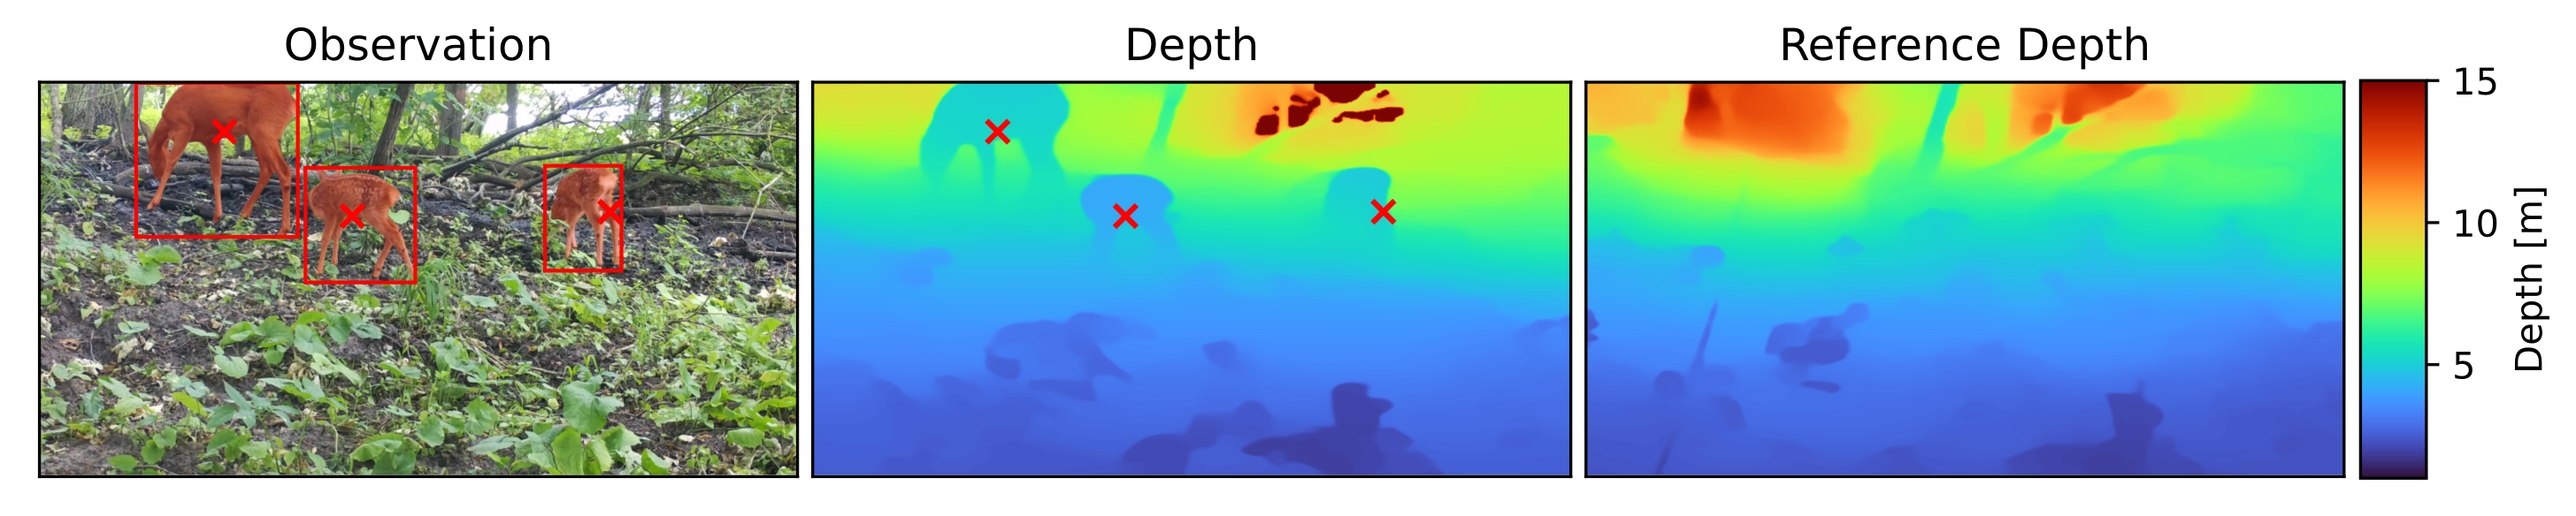
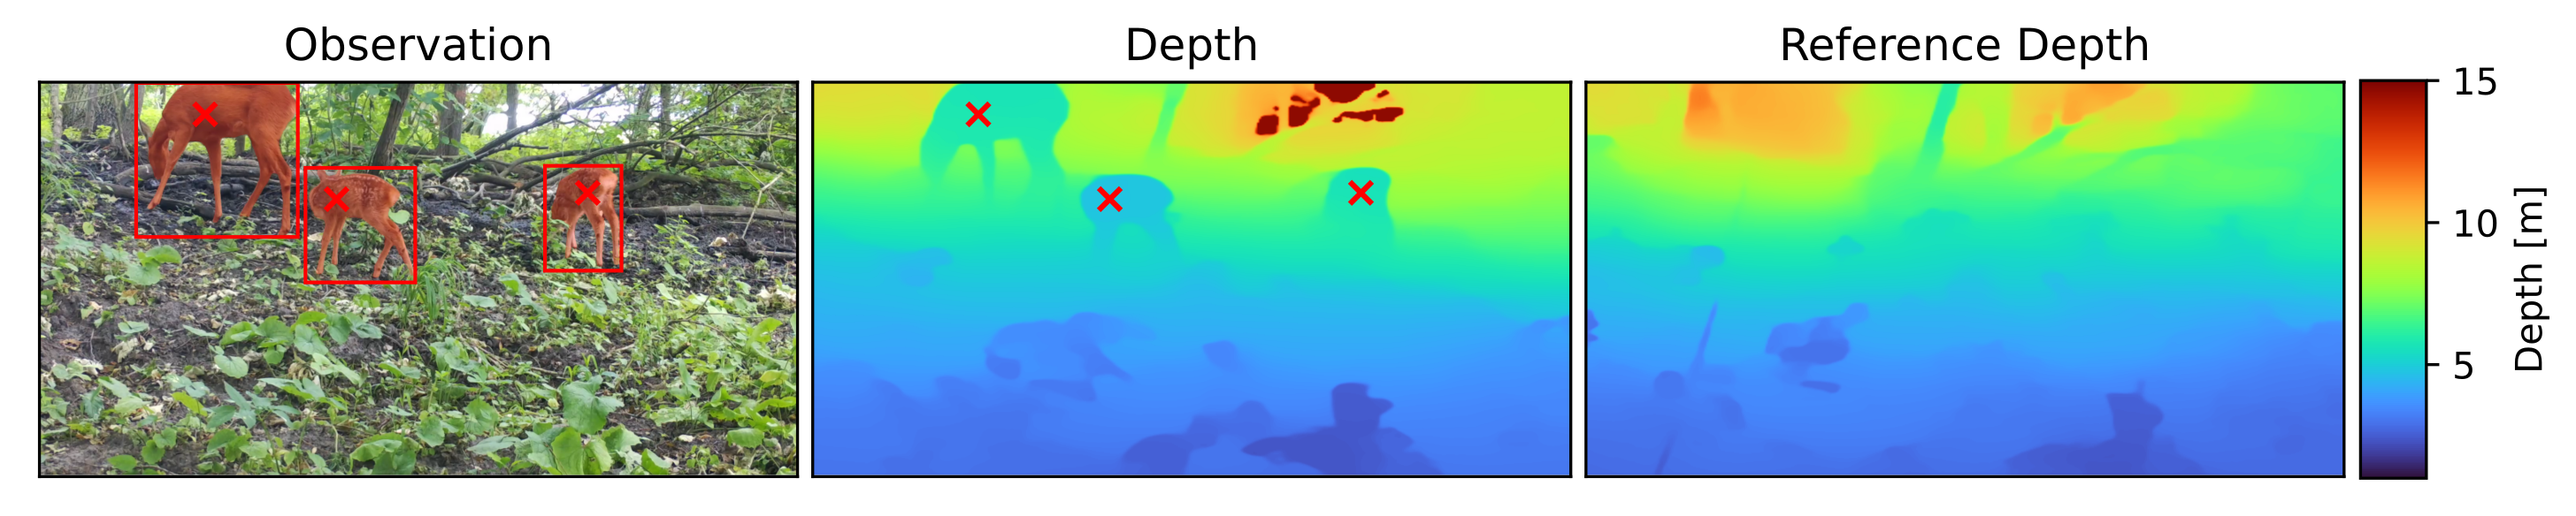
SAM: sample depth at maximum distance from mask boundaries

diff --git a/run.py b/run.py
@@ -230,14 +230,17 @@ def run(config: Config):
                         xmin, xmax = max(0, min(depth.shape[1] - 2, round(box[0]))), max(0, min(depth.shape[1] - 1, round(box[2])))
                         depth_cropped = depth[ymin:ymax, xmin:xmax]
                         mask_cropped = mask[ymin:ymax, xmin:xmax]
-                        if np.sum(mask_cropped) > 0:
-                            sampled_depths += [np.percentile(depth_cropped[mask_cropped], 50, method="nearest")]
-                        else:
-                            sampled_depths += [np.percentile(depth_cropped, config.bbox_sampling_percentile, method="nearest")]
-                        sample_location = np.nonzero(depth_cropped == sampled_depths[-1])
+                        mask_paddded = np.pad(mask_cropped, ((1, 1), (1, 1)))
+                        dist = cv2.distanceTransform((mask_paddded * 255).astype(np.uint8), cv2.DIST_L2, cv2.DIST_MASK_3)
+                        sample_location = np.unravel_index(np.argmax(dist, axis=None), dist.shape)
                         sample_location = (
-                            round(sample_location[0][0] + box[1]),
-                            round(sample_location[1][0] + box[0]),
+                            max(0, min(mask_cropped.shape[0], sample_location[0] - 1)),
+                            max(0, min(mask_cropped.shape[1], sample_location[1] - 1)),
+                        )
+                        sampled_depths += [depth_cropped[sample_location[0], sample_location[1]]]
+                        sample_location = (
+                            round(sample_location[0] + box[1]),
+                            round(sample_location[1] + box[0]),
                         )
                         sample_locations += [sample_location]
                     else:

diff --git a/config.py b/config.py
@@ -37,7 +37,7 @@ class Config:
     calibration_regression_method: RegressionMethod = RegressionMethod.RANSAC  # one of RANSAC|LEASTSQUARES|POLY|RANSAC_POLY
 
     # sampling_parameters
-    detection_sampling_method: DetectionSamplingMethod = DetectionSamplingMethod.BBOX_PERCENTILE  # one of BBOX_BOTTOM|BBOX_PERCENTILE
+    detection_sampling_method: DetectionSamplingMethod = DetectionSamplingMethod.BBOX_PERCENTILE  # one of BBOX_BOTTOM|BBOX_PERCENTILE|SAM
     multiple_animal_reduction: MultipleAnimalReduction = MultipleAnimalReduction.NONE  # one of NONE|MEDIAN|ONLY_CENTERMOST|
     sample_from: SampleFrom = SampleFrom.DETECTION  # one of REFERENCE|DETECTION
     bbox_sampling_percentile: int = 20  # percentile of depth values sampled from detected bounding boxes. Only used if detection_sampling_method is equal to DetectionSamplingMethod.BBOX_PERCENTILE.
